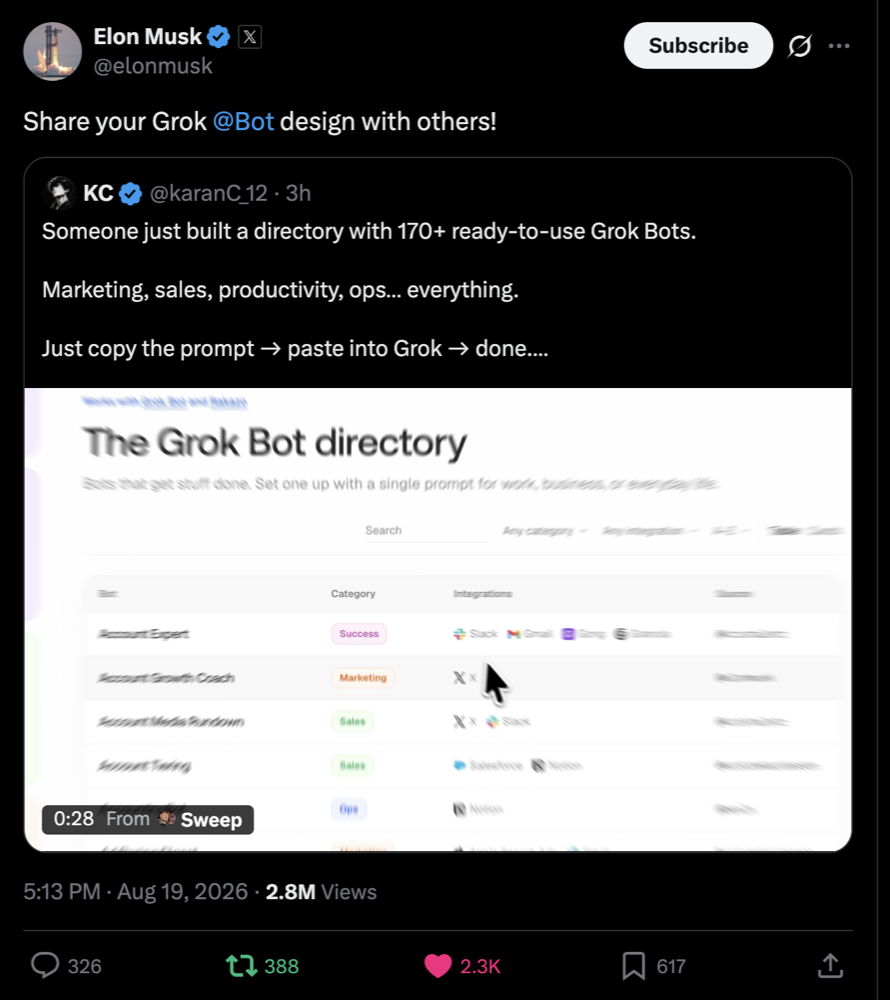
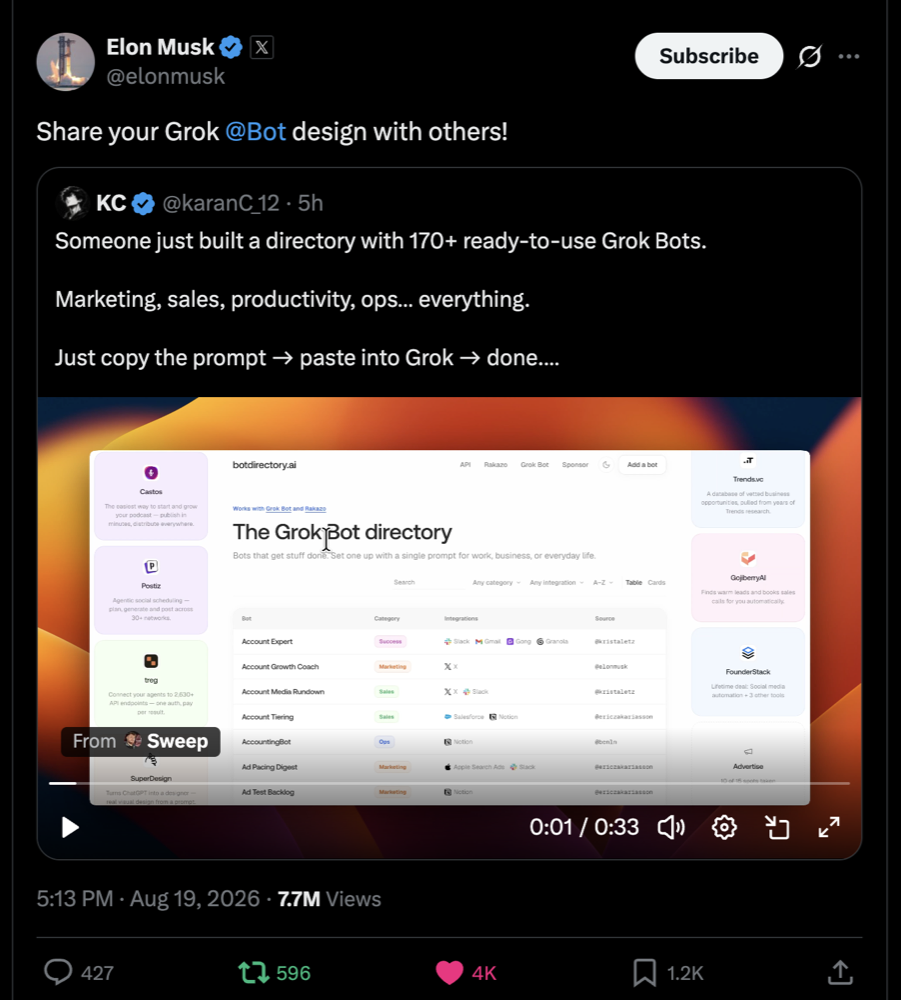
Sponsor page polish; Advertise links go to /sponsor instead of a dialog
- New Elon post screenshot (7.7M views), lossless-compressed
- Hero rewritten, em dashes removed, 'current rate rises' messaging
- A CTA on each placement card (Stripe for Side rail, email for the rest)
- Every Advertise touchpoint links to /sponsor/; SponsorDialog removed

diff --git a/src/styles/global.css b/src/styles/global.css
@@ -854,7 +854,7 @@ code, .iz-code {
 .attribution { margin-left: 6px; font-size: 13.5px; color: var(--iz-muted); }
 .attribution a { color: var(--iz-blue-600); }
 
-/* ---------- Sponsor dialog ---------- */
+/* ---------- Dialog base (TagDialog) ---------- */
 .sponsor-dialog {
   border: 1px solid var(--iz-line);
   border-radius: var(--r-card, 20px);
@@ -881,9 +881,7 @@ code, .iz-code {
   justify-content: center;
 }
 .sd-close:hover { background: var(--iz-surface); color: var(--iz-ink); }
-.sd-list { margin: 16px 0 0; padding: 0 0 0 18px; display: flex; flex-direction: column; gap: 8px; font-size: 14px; line-height: 1.5; color: var(--iz-body); }
 .sd-cta { margin-top: 22px; display: flex; align-items: center; gap: 14px; flex-wrap: wrap; }
-.sd-alt { font-size: 13.5px; color: var(--iz-muted); }
 
 /* ---------- Mobile marquee strips ---------- */
 .iz-strip { display: none; }
@@ -1641,8 +1639,6 @@ a.badge-plain:hover { color: var(--iz-ink); }
   transition: all 160ms ease;
 }
 .sp-btn-secondary:hover { background: var(--iz-surface); color: var(--iz-ink); }
-.sp-hero-note { font-size: 13px; color: var(--iz-muted-2); margin: 18px 0 0; }
-.sp-hero-note a { color: var(--iz-muted-2); text-decoration: underline; text-underline-offset: 3px; }
 .sp-figure { margin: 0; }
 .sp-figure-frame {
   display: block;
@@ -1795,3 +1791,7 @@ a.badge-plain:hover { color: var(--iz-ink); }
 }
 .sponsor-copy .sponsor-more { color: #8AA9FF; white-space: nowrap; }
 .sponsor-copy .sponsor-more:hover { color: #fff; }
+.sp-tier-note { margin: -6px 0 0; font-size: 12.5px; line-height: 1.45; color: var(--iz-muted-2); }
+.sp-tier-cta { margin-top: auto; padding-top: 10px; }
+.sp-tier-cta .pbtn-wrap, .sp-tier-cta .sp-btn-secondary { width: 100%; }
+.sp-tier-cta .pbtn, .sp-tier-cta .sp-btn-secondary { width: 100%; justify-content: center; box-sizing: border-box; }
